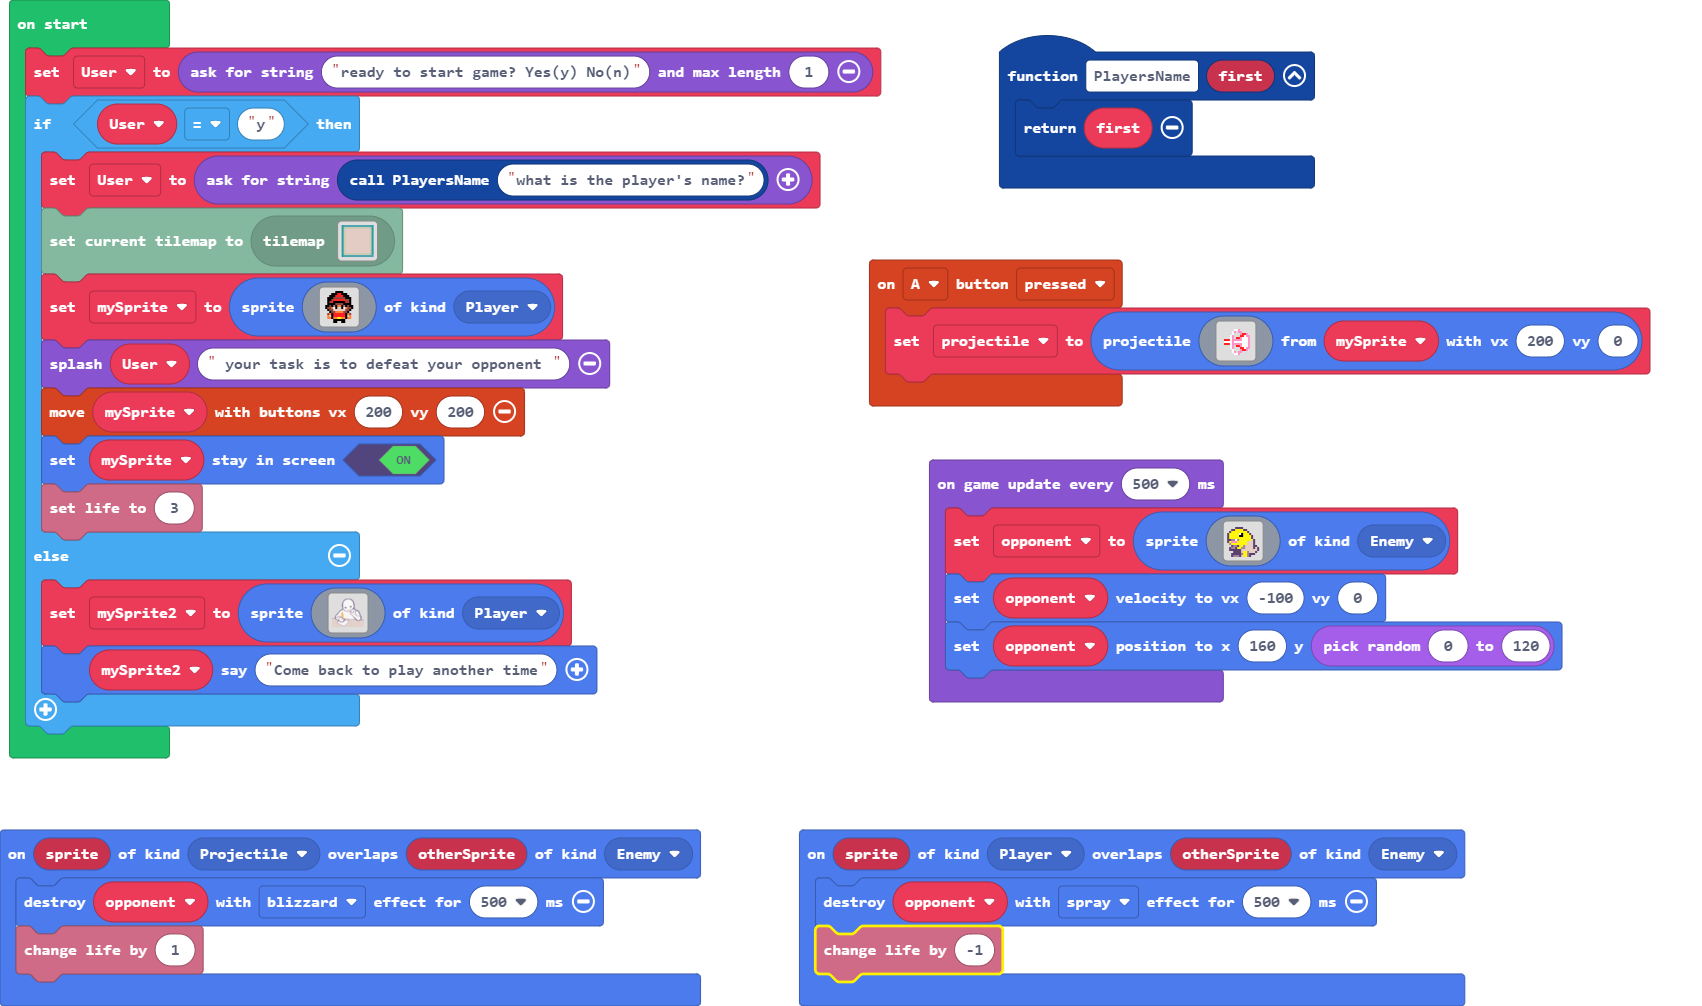
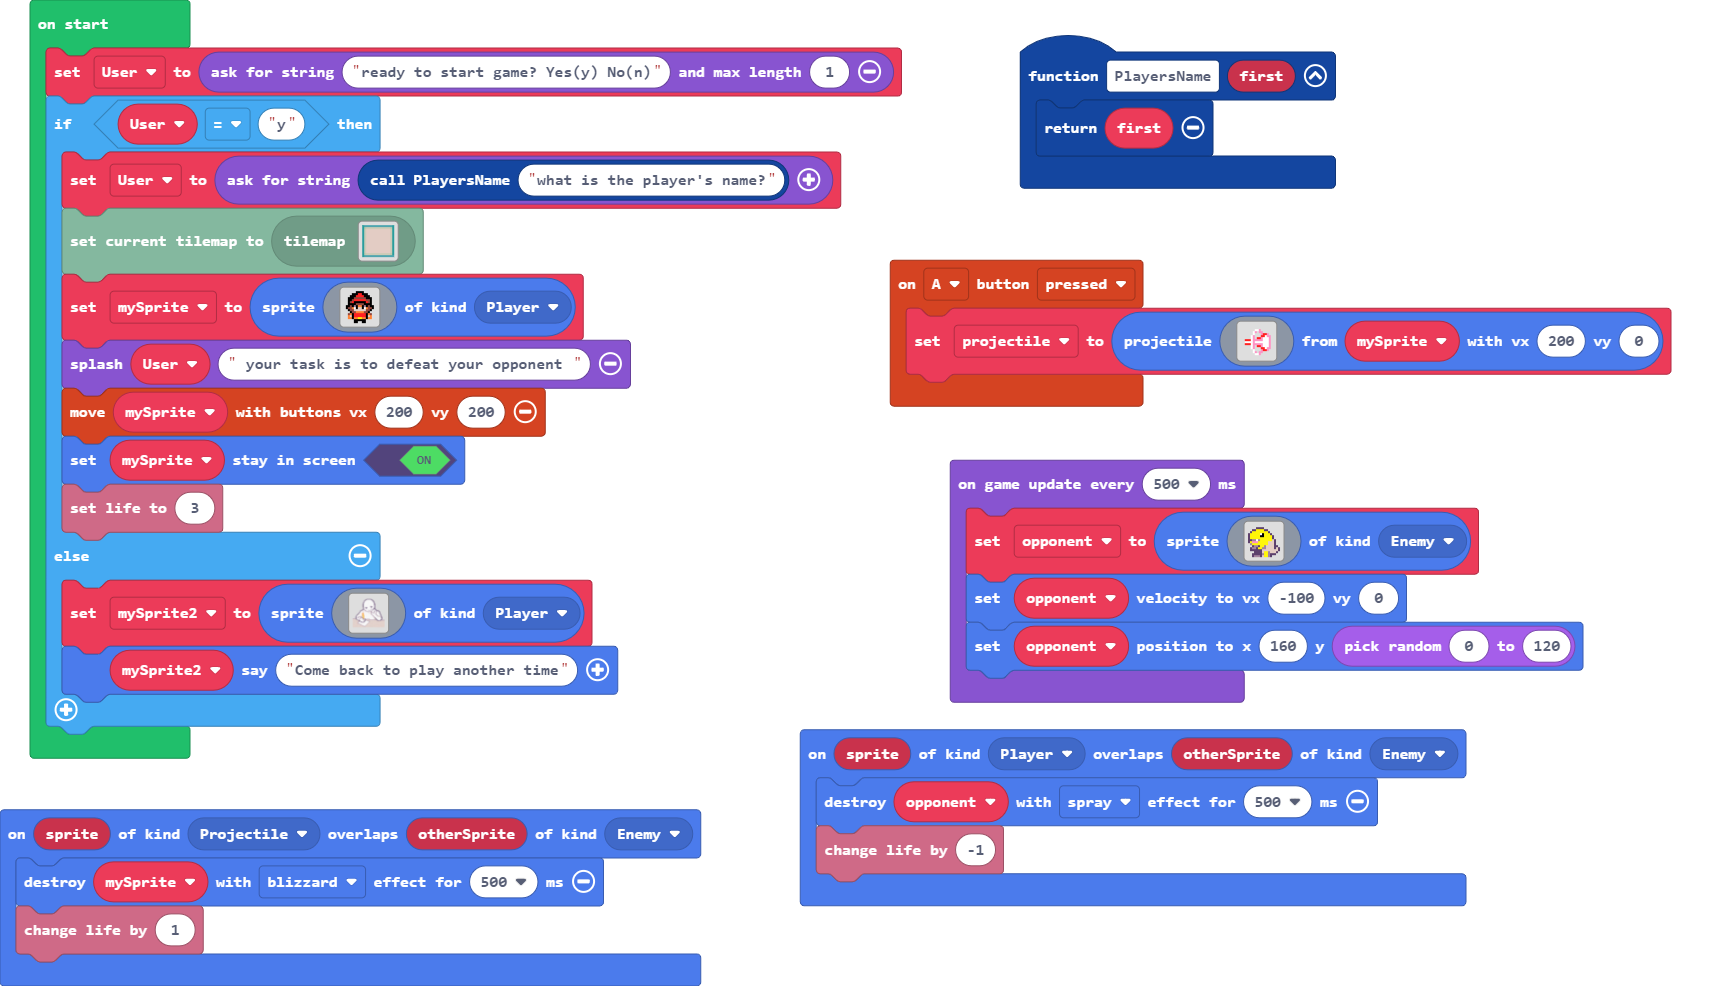
Update main.blocks, main.ts

diff --git a/main.ts b/main.ts
@@ -22,7 +22,7 @@ controller.A.onEvent(ControllerButtonEvent.Pressed, function () {
         `, mySprite, 200, 0)
 })
 sprites.onOverlap(SpriteKind.Projectile, SpriteKind.Enemy, function (sprite, otherSprite) {
-    opponent.destroy(effects.blizzard, 500)
+    mySprite.destroy(effects.blizzard, 500)
     info.changeLifeBy(1)
 })
 sprites.onOverlap(SpriteKind.Player, SpriteKind.Enemy, function (sprite, otherSprite) {
